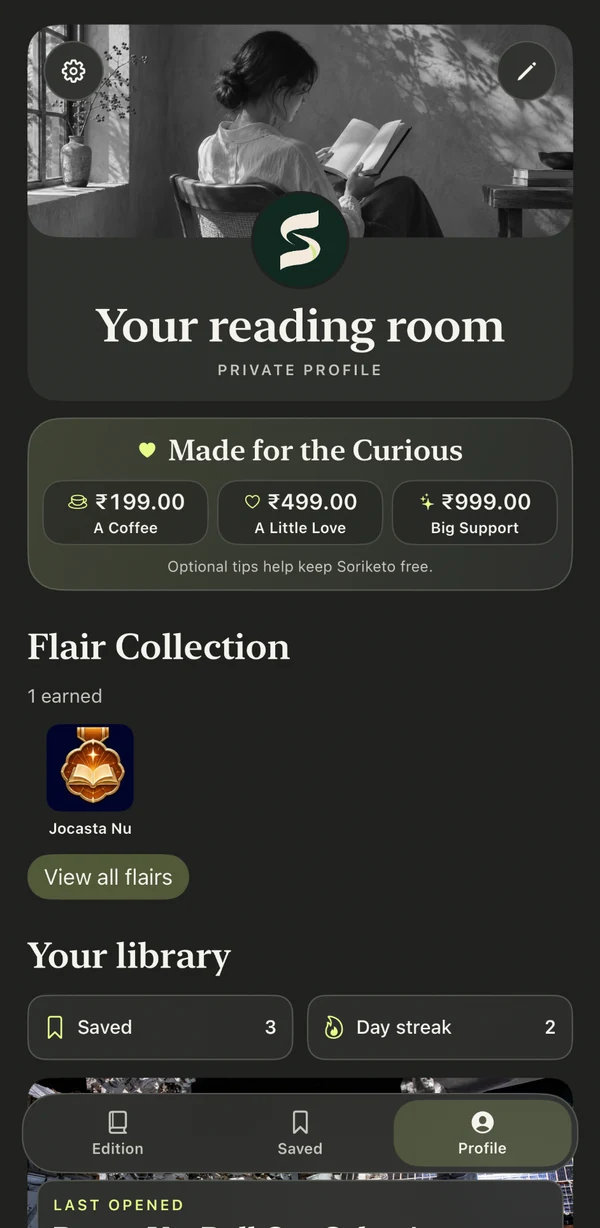
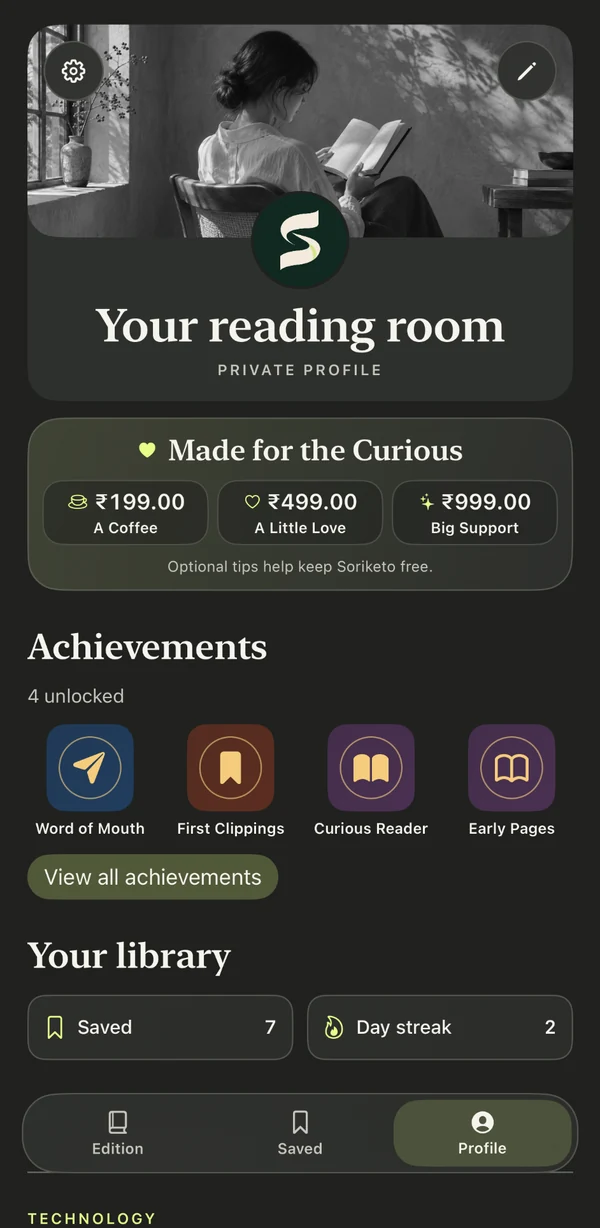
updated soriketo with faqs and updated images.

diff --git a/soriketo/index.html b/soriketo/index.html
@@ -15,8 +15,8 @@
   <meta name="twitter:card" content="summary_large_image">
   <title>Soriketo — Free for Life. Ad-Free for Life. | Ravzzy</title>
   <link rel="icon" href="assets/soriketo-icon.png">
-  <link rel="stylesheet" href="styles.css">
-  <script src="script.js" defer></script>
+  <link rel="stylesheet" href="styles.css?v=2">
+  <script src="script.js?v=2" defer></script>
 </head>
 <body id="top">
   <a href="#main" class="skip">Skip to content</a>
@@ -26,7 +26,7 @@
       <div class="nav-links">
         <a href="#features">Explore</a>
         <a href="#privacy-policy">Privacy</a>
-        <a href="#support">Support</a>
+        <a href="#support">FAQ &amp; Support</a>
         <a href="https://www.ravzzy.com/">Ravzzy</a>
       </div>
       <a class="pill nav-cta" href="#availability">iPhone &amp; iPad</a>
@@ -44,7 +44,7 @@
             <img src="assets/screens/saved-light.webp" width="600" height="1228" alt="Soriketo’s Saved Stories magazine in light mode" decoding="async">
           </figure>
           <figure class="device hero-right">
-            <img src="assets/screens/profile-light.webp" width="600" height="1228" alt="Soriketo’s private reader profile in light mode" decoding="async">
+            <img src="assets/screens/profile-light.webp?v=2" width="600" height="1228" alt="Soriketo’s private reader profile in light mode" decoding="async">
           </figure>
           <figure class="device hero-center">
             <img src="assets/screens/edition-dark.webp" width="600" height="1228" alt="A Soriketo edition in dark mode, with story photography and topic filters" decoding="async" fetchpriority="high">
@@ -65,8 +65,8 @@
           <div class="screen-picker" role="group" aria-label="Choose an app screen">
             <button type="button" data-screen="edition" aria-pressed="true"><strong>Your Edition</strong><span>Follow the subjects you love and browse stories in a magazine-style layout.</span></button>
             <button type="button" data-screen="saved" aria-pressed="false"><strong>Saved Stories</strong><span>Keep the stories that stayed with you in a magazine of their own.</span></button>
-            <button type="button" data-screen="profile" aria-pressed="false"><strong>Your Reading Room</strong><span>Find recent reads, set a profile photo and collect optional reading flairs.</span></button>
-            <button type="button" data-screen="settings" aria-pressed="false"><strong>Make It Yours</strong><span>Choose your appearance, manage sources and decide how you want to read.</span></button>
+            <button type="button" data-screen="profile" aria-pressed="false"><strong>Your Reading Room</strong><span>Revisit recent reads, see your achievements and make the space yours with a name and photo.</span></button>
+            <button type="button" data-screen="settings" aria-pressed="false"><strong>Make It Yours</strong><span>Follow topics, add your own feeds, switch appearance and set reminders or backups.</span></button>
           </div>
           <div class="screen-display" data-mode="light">
             <div class="mode-picker" role="group" aria-label="Screenshot appearance">
@@ -101,49 +101,162 @@
       </div>
     </section>
 
-    <div class="wrap section help-grid">
+    <div class="wrap section privacy-section">
       <section id="privacy-policy" aria-labelledby="privacy-title">
         <p class="eyebrow">Privacy</p>
         <h2 id="privacy-title">Your reading<br><em>stays yours.</em></h2>
-        <p>Soriketo needs no account. Your reader profile, preferences, saved stories, reading history and flairs are stored on your device.</p>
+        <p>Soriketo needs no account. Your reader profile, preferences, saved stories, reading history and achievements are stored on your device.</p>
         <details>
           <summary>Read the Privacy Policy</summary>
           <div class="disclosure">
             <h3>Reading and storage</h3>
-            <p>Soriketo stores reading data and cached content locally. The app has no advertising or advertising trackers. Optional summaries use Apple Intelligence on supported devices.</p>
+            <p>Soriketo stores reading data and cached content locally. The app has no advertising or advertising trackers. Optional summaries use Apple Intelligence on supported devices. Reading reminders are scheduled on your device.</p>
             <h3>Publishers and content</h3>
             <p>Soriketo connects directly to publishers and content hosts to fetch feeds, stories and images. Those services can receive standard request information, such as your IP address. When you open a publisher’s website, its own privacy policy applies.</p>
             <h3>Backups, tips and support</h3>
             <p>If you export or schedule a backup, Soriketo writes the file to the Files location you choose. Your selected storage provider may sync it. Apple processes optional tips through the App Store. If you email for support, Ravzzy receives the information you share in the message.</p>
             <h3>Managing your data</h3>
-            <p>You can clear reading history in Profile, remove saved stories in the app and manage exported backup files in Files.</p>
+            <p>You can clear reading history in Profile, reset Edition’s read status in Settings, remove saved stories and manage exported backups in Files.</p>
           </div>
         </details>
       </section>
-      <section id="support" aria-labelledby="support-title">
-        <p class="eyebrow">Support</p>
-        <h2 id="support-title">How can<br><em>we help?</em></h2>
-        <details>
-          <summary>Will Soriketo always be free?</summary>
-          <p>Yes. Soriketo is free and ad-free for life. Optional tips support development and don’t unlock features or renew automatically.</p>
-        </details>
-        <details>
-          <summary>How do I follow a source?</summary>
-          <p>Open Profile, then tap Settings and choose Sources. You can enable a built-in source or add a public RSS or Atom feed and assign it to a topic you follow.</p>
-        </details>
-        <details>
-          <summary>Can I read offline?</summary>
-          <p>Previously prepared articles can be read offline while they’re stored on your device. Fetching new stories or opening a publisher’s website requires a connection.</p>
-        </details>
-        <a class="pill support-link" href="mailto:ravzzyytube+soriketo@gmail.com">Email Soriketo support</a>
-      </section>
     </div>
+    <section class="section faq" id="support" aria-labelledby="support-title">
+      <div class="wrap">
+        <div class="section-intro">
+          <p class="eyebrow">Help &amp; Support</p>
+          <h2 id="support-title">Soriketo <em>FAQ.</em></h2>
+          <p>Set up your Edition, find feeds you want to follow, and manage your reading and backups.</p>
+        </div>
+        <nav class="faq-nav" aria-label="FAQ topics">
+          <a href="#faq-edition">Reading &amp; Edition</a>
+          <a href="#faq-sources">Topics &amp; Sources</a>
+          <a href="#faq-settings">Reading Settings</a>
+          <a href="#faq-backups">Backups &amp; Data</a>
+        </nav>
+        <div class="faq-grid">
+          <section class="faq-group" id="faq-edition" aria-labelledby="faq-edition-title">
+            <h3 id="faq-edition-title">Reading &amp; Edition</h3>
+            <details>
+              <summary>Is Soriketo free? What is the Tip Jar?</summary>
+              <p>Soriketo is free and ad-free for life. Optional one-time tips through the App Store support development. Every feature is available without a tip, and tips never renew automatically. Publisher websites may display their own ads or subscription prompts.</p>
+            </details>
+            <details>
+              <summary>How do I refresh Edition or find more stories?</summary>
+              <p>Pull down from the top of Edition or a topic and release to check your sources. New unread stories go first. If there are no new entries, Soriketo can surface other unread stories from the cache. Swipe up at the bottom to load more.</p>
+            </details>
+            <details>
+              <summary>Why does the first Edition take longer?</summary>
+              <p>On first use, Soriketo prepares stories and images from the topics you chose. If a matching Edition was prepared by a successful background or manual refresh in the last 12 hours, the app can reuse it on launch without starting another automatic refresh. iOS decides when background refresh runs, so you can always pull down to check for more.</p>
+            </details>
+            <details>
+              <summary>Where did a story go after I opened it?</summary>
+              <p>Edition and its topic views show unread stories. Opened stories can be found in Profile under Reading History. Save a story with the bookmark icon to keep it in Saved, where you can pull down to reveal search.</p>
+            </details>
+            <details>
+              <summary>Can I read offline or copy a passage?</summary>
+              <p>Previously prepared articles can be read offline while their content is cached on your device. New stories and publisher websites need a connection. In the native reader, tap the copy icon and choose <strong>Select Text</strong> for a passage or <strong>Copy Entire Article</strong> for the full text.</p>
+            </details>
+          </section>
+          <section class="faq-group" id="faq-sources" aria-labelledby="faq-sources-title">
+            <h3 id="faq-sources-title">Topics &amp; Sources</h3>
+            <details>
+              <summary>How do I follow topics and manage built-in sources?</summary>
+              <p>Open <strong>Profile → Settings → Subscribed Topics</strong> to follow or unfollow topics. Open <strong>Sources</strong> to turn individual publishers on or off. The pencil beside a built-in source lets you rename it, change its topic, or use a replacement feed.</p>
+            </details>
+            <details>
+              <summary>How do I add my own source?</summary>
+              <div class="disclosure">
+                <ol>
+                  <li>Open <strong>Profile → Settings → Sources → Add Custom Source</strong>.</li>
+                  <li>Paste a public <strong>HTTPS RSS or Atom feed URL</strong>. You can give the source your own name.</li>
+                  <li>Assign it to a topic you follow, or choose <strong>Create Topic</strong>. Tap <strong>Save</strong> to check the feed. If you pick an existing topic you don’t follow, turn it on under <strong>Subscribed Topics</strong>.</li>
+                </ol>
+                <p>Use the switch beside a custom source to pause it, or the three-dot menu to edit or delete it.</p>
+              </div>
+            </details>
+            <details>
+              <summary>How do I find a publisher’s feed URL?</summary>
+              <div class="disclosure">
+                <ol>
+                  <li>Look on the publisher’s website for <strong>RSS</strong>, <strong>Atom</strong>, <strong>Feeds</strong>, or the RSS icon. The footer and Help pages are good places to start.</li>
+                  <li>If you can’t find it, search for the publisher or blog name followed by <strong>RSS feed</strong>. Some publishers offer separate feeds for each section.</li>
+                  <li>Copy the link to the feed itself. It may show raw XML or open a feed preview in your browser. You can see examples on <a href="https://www.nasa.gov/rss-feeds/">NASA’s RSS feeds page</a> and <a href="https://www.theguardian.com/help/feeds">The Guardian’s feed help page</a>.</li>
+                </ol>
+                <p>Some websites don’t publish a public feed. Soriketo needs an RSS or Atom feed URL to add them as custom sources.</p>
+              </div>
+            </details>
+            <details>
+              <summary>Why is a source missing or showing no articles?</summary>
+              <p>Check that the feed URL is public, uses HTTPS, and opens without signing in. Make sure the source is enabled and its topic is followed. If the feed only publishes summaries or provides links to stories Soriketo can’t prepare in its reader, turn off <strong>In-App Reading Only</strong> to include eligible publisher stories. Pull to refresh after checking.</p>
+            </details>
+          </section>
+          <section class="faq-group" id="faq-settings" aria-labelledby="faq-settings-title">
+            <h3 id="faq-settings-title">Reading Settings</h3>
+            <details>
+              <summary>What does In-App Reading Only do?</summary>
+              <p>When it’s on, Edition includes stories Soriketo can present in its native reader. Turn it off to also include eligible articles that open in the publisher’s web view. Publisher subscriptions and paywalls still apply on the publisher’s site.</p>
+            </details>
+            <details>
+              <summary>How do I change the appearance?</summary>
+              <p>Go to <strong>Profile → Settings → Appearance</strong> and choose <strong>System</strong>, <strong>Light</strong>, or <strong>Dark</strong>. System follows your device’s appearance setting.</p>
+            </details>
+            <details>
+              <summary>How do I use Apple Intelligence summaries?</summary>
+              <p>Turn on <strong>Apple Intelligence</strong> in Soriketo Settings, then tap the sparkle icon in a native article. The button appears when Apple Intelligence is available on the device. Check the device’s Apple Intelligence settings if it’s missing.</p>
+            </details>
+            <details>
+              <summary>How do Reading Reminders work?</summary>
+              <p>Reading Reminder is on by default, with delivery subject to iOS notification permission. Choose a time in Settings. Soriketo sends one reminder at the next occurrence of that time after at least 72 hours away. Opening the app resets the wait. Tap the reminder to open Edition, or use <strong>Send Test Notification</strong> to check delivery in about five seconds. You can turn reminders off at any time.</p>
+            </details>
+            <details>
+              <summary>How do I change my profile name or photo?</summary>
+              <p>Tap the pencil on your reading room in <strong>Profile</strong>. Update your name or choose a photo and save your changes. This profile is stored on your device.</p>
+            </details>
+            <details>
+              <summary>What counts toward streaks and achievements?</summary>
+              <p>With <strong>Track Reading Streak</strong> on, opening Soriketo on consecutive days builds your streak. Achievements also recognize distinct articles opened, saved, or shared. See your progress in <strong>Profile → View All Achievements</strong>.</p>
+            </details>
+          </section>
+          <section class="faq-group" id="faq-backups" aria-labelledby="faq-backups-title">
+            <h3 id="faq-backups-title">Backups &amp; Data</h3>
+            <details>
+              <summary>How do I back up or move my reading data?</summary>
+              <p>Open <strong>Profile → Settings → Backup &amp; Restore → Export a New Backup</strong> and choose a location in Files. On another device, use <strong>Restore from File</strong> and confirm that you want to replace its current profile data. The JSON backup includes saved stories, reading history, read status, achievements, and settings. Backup folder access is device-specific, so choose a folder again when needed.</p>
+            </details>
+            <details>
+              <summary>How do I schedule backups or choose a folder?</summary>
+              <p>Open <strong>Backup &amp; Restore → Scheduled Backups</strong>, then use <strong>Choose a Folder in Files</strong> or <strong>Change Folder in Files</strong>. Select a writable location and choose <strong>Daily</strong>, <strong>Weekly</strong>, or <strong>Every 30 days</strong>. <strong>Back Up Now</strong> writes on demand. iOS can defer scheduled backups. Soriketo also checks for overdue backups when you open it.</p>
+            </details>
+            <details>
+              <summary>Will each scheduled backup create a new file?</summary>
+              <p>Turn on <strong>Overwrite Previous Backup</strong> to update one file named <code>Soriketo-backup-latest.json</code>. Leave it off to keep dated copies. These files contain readable JSON and may include private reading data, so choose where you store or share them.</p>
+            </details>
+            <details>
+              <summary>What’s the difference between Clear Cache and Clear Reading History?</summary>
+              <p><strong>Clear Cache</strong> resets the read status used by Edition, so previously opened stories can appear again. <strong>Clear Reading History</strong> removes the list of recent reads from Profile and keeps the read status Edition uses. Saved stories and achievement progress are kept in both cases.</p>
+            </details>
+            <details>
+              <summary>What happens if I choose Restore to Default?</summary>
+              <p>Soriketo removes custom topics and sources, resets settings, turns off scheduled backups, and asks you to choose topics again. Your profile, saved stories, reading history, and achievements are kept. Use <strong>Open Backup &amp; Restore</strong> in the confirmation to export a backup before you reset.</p>
+            </details>
+          </section>
+        </div>
+        <div class="support-contact">
+          <div>
+            <h3>Still Need Help?</h3>
+            <p>Include your app version and iOS or iPadOS version, plus the steps that led to the issue. For a feed problem, include its public RSS or Atom URL.</p>
+          </div>
+          <a class="pill support-link" href="mailto:ravzzyytube+soriketo@gmail.com">Email Soriketo support</a>
+        </div>
+      </div>
+    </section>
   </main>
   <footer class="footer">
     <div class="wrap">
       <a class="brand" href="#top"><img src="assets/soriketo-icon.png" width="32" height="32" alt="">Soriketo<span aria-hidden="true">.</span></a>
       <a href="https://www.ravzzy.com/">Made by Ravzzy</a>
-      <div><a href="#privacy-policy">Privacy</a><a href="#support">Support</a></div>
+      <div><a href="#privacy-policy">Privacy</a><a href="#support">FAQ &amp; Support</a></div>
     </div>
   </footer>
 </body>

diff --git a/soriketo/styles.css b/soriketo/styles.css
@@ -126,9 +126,6 @@ h3 { font-weight: 800; line-height: 1.2; }
 .availability .launch-status { color: var(--lime); font-size: .875rem; }
 .availability .pill { margin-top: .8rem; }
 
-.help-grid { display: grid; grid-template-columns: 1fr 1fr; gap: clamp(2.5rem, 8vw, 6rem); }
-.help-grid h2 { font-size: clamp(2.35rem, 5.3vw, 4.25rem); margin-bottom: 1.15rem; }
-.help-grid section > p:not(.eyebrow) { margin-bottom: 1.25rem; color: var(--muted); }
 details { border-top: 1px solid var(--line); }
 details:last-of-type { border-bottom: 1px solid var(--line); }
 summary { padding: .85rem .3rem; font-weight: 600; cursor: pointer; }
@@ -136,7 +133,6 @@ summary::marker { color: var(--lime); }
 details > p, .disclosure { color: var(--muted); padding: 0 .3rem 1rem; }
 .disclosure h3 { font-size: 1rem; color: var(--cream); margin: .6rem 0 .25rem; }
 .disclosure p + h3 { margin-top: 1rem; }
-.support-link { margin-top: 1.4rem; }
 .footer { background: var(--forest-deep); border-top: 1px solid var(--line); padding: 1.45rem 0; }
 .footer .wrap, .footer .wrap > div { display: flex; align-items: center; flex-wrap: wrap; justify-content: space-between; gap: 1rem 1.5rem; }
 .footer .wrap > a:not(.brand), .footer .wrap > div { font-size: .875rem; color: var(--muted); }
@@ -147,7 +143,7 @@ details > p, .disclosure { color: var(--muted); padding: 0 .3rem 1rem; }
   .nav-links { order: 3; margin-left: 0; width: 100%; justify-content: space-between; }
   .nav-links a { display: inline-flex; align-items: center; min-height: 36px; }
   html { scroll-padding-top: 7rem; }
-  .tour-grid, .promise-grid, .help-grid { grid-template-columns: 1fr; }
+  .tour-grid, .promise-grid { grid-template-columns: 1fr; }
   .screen-picker { grid-template-columns: 1fr 1fr; gap: .4rem; }
   .screen-picker button { display: flex; align-items: center; min-height: 48px; border: 1px solid #202b2330; border-radius: .65rem; text-align: left; padding: .45rem .7rem; }
   .screen-picker button strong { font-size: .875rem; margin: 0; }
@@ -162,4 +158,28 @@ details > p, .disclosure { color: var(--muted); padding: 0 .3rem 1rem; }
 @media (prefers-reduced-motion: reduce) {
   html { scroll-behavior: auto; }
   .pill { transition: none; }
+}
+
+.privacy-section > section { max-width: 44rem; }
+.privacy-section h2 { font-size: clamp(2.35rem, 5.3vw, 4.25rem); margin-bottom: 1.15rem; }
+.privacy-section section > p:not(.eyebrow) { margin-bottom: 1.25rem; color: var(--muted); }
+.faq { border-top: 1px solid var(--line); background: #0a211a; }
+.faq .section-intro > p:last-child { color: var(--muted); }
+.faq-nav { display: flex; flex-wrap: wrap; gap: .5rem; margin-bottom: 2rem; }
+.faq-nav a { display: inline-flex; align-items: center; min-height: 44px; padding: .45rem .9rem; border: 1px solid var(--line); border-radius: 999px; font-size: .875rem; text-decoration: none; }
+.faq-nav a:hover, .faq details[open] summary { color: var(--lime); }
+.faq-grid { display: grid; grid-template-columns: repeat(2, minmax(0, 1fr)); gap: clamp(1.25rem, 4vw, 2.5rem); }
+.faq-group { min-width: 0; background: #f2efe606; border: 1px solid var(--line); border-radius: 1.25rem; padding: clamp(1rem, 3vw, 1.65rem); }
+.faq-group h3 { margin-bottom: .9rem; font-size: clamp(1.25rem, 2.5vw, 1.55rem); }
+.faq-group details:last-of-type { border-bottom: 0; }
+.faq-group a { color: var(--lime); text-underline-offset: .17em; }
+.faq-group ol { padding-inline-start: 1.35rem; }
+.faq-group li + li { margin-top: .45rem; }
+.support-contact { display: flex; align-items: center; justify-content: space-between; gap: 1.25rem 2rem; padding-top: 1.65rem; margin-top: 2.2rem; border-top: 1px solid var(--line); }
+.support-contact p { margin-top: .5rem; color: var(--muted); }
+.support-contact .support-link { flex: none; margin: 0; }
+
+@media (max-width: 730px) {
+  .faq-grid { grid-template-columns: 1fr; }
+  .support-contact { flex-direction: column; align-items: flex-start; }
 }

diff --git a/soriketo/script.js b/soriketo/script.js
@@ -23,8 +23,8 @@ scheduleHeroMotion();
 const screenshots = {
   edition: ["Your Edition", "Soriketo’s edition with topic filters and an illustrated lead story"],
   saved: ["Saved Stories", "Soriketo’s Saved Stories with articles on space, nature and travel"],
-  profile: ["Your Reading Room", "Soriketo’s reader profile with the optional Tip Jar, flair collection and library"],
-  settings: ["Make It Yours", "Soriketo settings for topics, sources, appearance, reading and backups"]
+  profile: ["Your Reading Room", "Soriketo’s reader profile with the optional Tip Jar, unlocked achievements and reading library"],
+  settings: ["Make It Yours", "Soriketo settings for sources, appearance, Apple Intelligence, reading reminders and backups"]
 };
 
 const screenButtons = document.querySelectorAll("[data-screen]");
@@ -37,7 +37,8 @@ let appearance = "light";
 
 function showScreenshot() {
   const [title, description] = screenshots[screen];
-  screenshot.src = `assets/screens/${screen}-${appearance}.webp`;
+  const version = screen === "profile" || screen === "settings" ? "?v=2" : "";
+  screenshot.src = `assets/screens/${screen}-${appearance}.webp${version}`;
   screenshot.alt = `${description}, in ${appearance} mode`;
   screenDisplay.dataset.mode = appearance;
   caption.textContent = `${title} · ${appearance === "light" ? "Light" : "Dark"} mode`;

diff --git a/soriketo/README.md b/soriketo/README.md
@@ -7,3 +7,5 @@ The app already links to `/soriketo/#privacy-policy` and `/soriketo/#support`. K
 When the public App Store listing is live, set `APP_STORE_URL` in `script.js` to the listing URL. The site will replace the development status with an App Store button. App Store Connect and TestFlight URLs are intended for their respective private and beta workflows.
 
 The four gallery choices each have a light and dark screenshot. The eight images are optimized WebP exports from the supplied iPhone captures with the status bar cropped. The app logo and the social sharing image are included.
+
+The FAQ lives at `#support` and retains the in-app support link. Its answers follow the Settings labels in the current Soriketo build.
